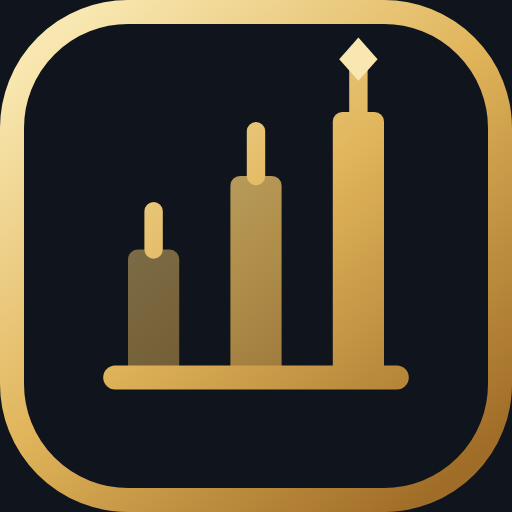
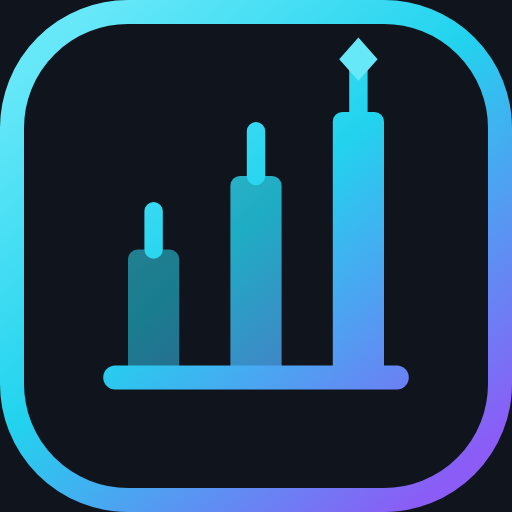
Retint the trading floor from gold to cyan and violet.
Electric cyan is the primary accent and violet is the secondary. Green and red stay on PnL. Headlines move from Fraunces to Space Grotesk. Logo, icons, and the Open Graph image match.

diff --git a/app/src/app/globals.css b/app/src/app/globals.css
@@ -1,6 +1,6 @@
 @import "tailwindcss";
 
-/* Royale Floor: ink, ivory, and champagne gold. Trading green and red stay literal. */
+/* Trading floor: ink, electric cyan, violet. Green and red are PnL only. */
 @theme {
   --color-bg: #07080c;
   --color-surface: #10141c;
@@ -8,19 +8,21 @@
   --color-surface-3: #222a3b;
   --color-border: #2a3346;
   --color-border-strong: #3d4a63;
-  --color-fg: #f4efe4;
+  --color-fg: #e7eef6;
   --color-muted: #a8b0c0;
   --color-faint: #6e778a;
   --color-up: #1edb8a;
   --color-up-strong: #16c47b;
   --color-down: #ff4d6d;
   --color-down-strong: #e43758;
-  --color-accent: #e0b45a;
-  --color-accent-strong: #c9963a;
+  --color-accent: #22d3ee;
+  --color-accent-strong: #06b6d4;
+  --color-violet: #a78bfa;
+  --color-violet-deep: #8b5cf6;
   --color-warn: #f0b429;
   --font-sans: var(--font-outfit), ui-sans-serif, system-ui, sans-serif;
   --font-mono: var(--font-jetbrains), ui-monospace, monospace;
-  --font-display: var(--font-fraunces), ui-serif, Georgia, serif;
+  --font-display: var(--font-display-face), ui-sans-serif, system-ui, sans-serif;
   --radius-card: 18px;
 }
 
@@ -37,16 +39,16 @@ body {
 body {
   min-height: 100dvh;
   background-image:
-    radial-gradient(980px 480px at 88% -8%, rgba(224, 180, 90, 0.13), transparent 58%),
-    radial-gradient(760px 420px at -12% 8%, rgba(30, 219, 138, 0.05), transparent 52%),
+    radial-gradient(980px 480px at 88% -8%, rgba(34, 211, 238, 0.14), transparent 58%),
+    radial-gradient(760px 420px at -12% 8%, rgba(139, 92, 246, 0.1), transparent 52%),
     linear-gradient(180deg, #0b0d13 0%, #07080c 280px);
   -webkit-font-smoothing: antialiased;
   -webkit-tap-highlight-color: transparent;
 }
 
 ::selection {
-  background: rgba(224, 180, 90, 0.28);
-  color: #fff8e8;
+  background: rgba(34, 211, 238, 0.28);
+  color: #f4fbff;
 }
 
 :focus-visible {
@@ -62,8 +64,8 @@ body {
 
 .display {
   font-family: var(--font-display);
-  font-weight: 520;
-  letter-spacing: -0.03em;
+  font-weight: 600;
+  letter-spacing: -0.045em;
 }
 
 .kicker {
@@ -178,8 +180,8 @@ body {
 }
 .storm-spotlight {
   background-image:
-    linear-gradient(100deg, transparent 30%, rgba(248, 231, 176, 0.45) 50%, transparent 70%),
-    linear-gradient(180deg, #2a220f, #16130c);
+    linear-gradient(100deg, transparent 30%, rgba(34, 211, 238, 0.55) 50%, transparent 70%),
+    linear-gradient(180deg, #0c1c24, #10141c);
   background-size: 45% 100%, 100% 100%;
   background-repeat: no-repeat;
   animation: spotlight-sweep 2.6s linear infinite;
@@ -188,16 +190,16 @@ body {
 @keyframes surge-flicker {
   0%,
   100% {
-    box-shadow: inset 0 0 0 1px rgba(224, 180, 90, 0.35);
+    box-shadow: inset 0 0 0 1px rgba(139, 92, 246, 0.45);
   }
   46% {
-    box-shadow: inset 0 0 28px rgba(224, 180, 90, 0.28);
+    box-shadow: inset 0 0 28px rgba(167, 139, 250, 0.35);
   }
   50% {
-    box-shadow: inset 0 0 0 1px rgba(255, 255, 255, 0.4);
+    box-shadow: inset 0 0 0 1px rgba(34, 211, 238, 0.55);
   }
   54% {
-    box-shadow: inset 0 0 36px rgba(224, 180, 90, 0.45);
+    box-shadow: inset 0 0 36px rgba(139, 92, 246, 0.5);
   }
 }
 .storm-surge {

diff --git a/app/src/app/page.tsx b/app/src/app/page.tsx
@@ -32,7 +32,7 @@ export default function Lobby() {
           </Pill>
           <h1 className="display mt-5 text-[42px] leading-[0.96] sm:text-[64px]">
             The battle royale
-            <span className="mt-1 block italic text-accent">for traders.</span>
+            <span className="mt-1 block text-accent">for traders.</span>
           </h1>
           <p className="mt-5 max-w-xl text-[16px] leading-relaxed text-muted">
             Four to sixteen traders stake USDC, take hidden positions on live prices, and outlast a field that gets smaller every minute. The last traders standing take the pot, paid on Solana.
@@ -467,7 +467,7 @@ function HowItWorks() {
 function StormShowcase() {
   const storms = [StormKind.Spotlight, StormKind.Surge, StormKind.Freeze, StormKind.ZoneShrink];
   return (
-    <section className="overflow-hidden rounded-[22px] border border-border bg-[linear-gradient(180deg,#16130c_0%,#10141c_42%)]">
+    <section className="overflow-hidden rounded-[22px] border border-violet/25 bg-[linear-gradient(180deg,#140e22_0%,#10141c_46%)]">
       <div className="px-5 py-8 sm:px-8">
         <div className="kicker">Storms</div>
         <h2 className="display mt-2 max-w-xl text-3xl sm:text-4xl">The rules change in public.</h2>
@@ -476,7 +476,7 @@ function StormShowcase() {
         </p>
         <div className="mt-6 grid gap-3 sm:grid-cols-2 lg:grid-cols-4">
           {storms.map((k) => (
-            <div key={k} className="rounded-2xl border border-accent/20 bg-black/25 p-4">
+            <div key={k} className="rounded-2xl border border-violet/30 bg-black/25 p-4">
               <div className="text-sm font-semibold text-accent">{STORM_COPY[k].title}</div>
               <p className="mt-2 text-[13px] leading-relaxed text-muted">{STORM_COPY[k].blurb("SOL", "Long")}</p>
             </div>

diff --git a/app/src/components/brand.tsx b/app/src/components/brand.tsx
@@ -7,14 +7,14 @@ import { cx } from "./ui";
 /** Crown of three candles. The tallest wick keeps the jewel. */
 export function LogoMark({ size = 28 }: { size?: number }) {
   const id = useId().replace(/:/g, "");
-  const grad = `pnl-gold-${id}`;
+  const grad = `pnl-signal-${id}`;
   return (
     <svg width={size} height={size} viewBox="0 0 32 32" aria-hidden>
       <defs>
         <linearGradient id={grad} x1="4" y1="2" x2="28" y2="30" gradientUnits="userSpaceOnUse">
-          <stop stopColor="#F8E7B0" />
-          <stop offset="0.48" stopColor="#E0B45A" />
-          <stop offset="1" stopColor="#A06D28" />
+          <stop stopColor="#67E8F9" />
+          <stop offset="0.45" stopColor="#22D3EE" />
+          <stop offset="1" stopColor="#8B5CF6" />
         </linearGradient>
       </defs>
       <rect width="32" height="32" rx="8" fill="#10141C" />
@@ -24,7 +24,7 @@ export function LogoMark({ size = 28 }: { size?: number }) {
       <rect x="14.4" y="11" width="3.2" height="12.6" rx="0.6" fill={`url(#${grad})`} opacity="0.78" />
       <rect x="20.8" y="7" width="3.2" height="16.6" rx="0.6" fill={`url(#${grad})`} />
       <path d="M9.6 13.2v2.4M16 8.2v2.8M22.4 4.15v2.85" stroke={`url(#${grad})`} strokeWidth="1.15" strokeLinecap="round" />
-      <path d="M22.4 2.35l1.2 1.35-1.2 1.35-1.2-1.35z" fill="#F8E7B0" />
+      <path d="M22.4 2.35l1.2 1.35-1.2 1.35-1.2-1.35z" fill="#67E8F9" />
     </svg>
   );
 }
@@ -35,7 +35,7 @@ export function Logo({ compact = false }: { compact?: boolean }) {
       <LogoMark size={compact ? 26 : 30} />
       <span className="leading-none">
         <span className="display block text-[17px] text-fg">
-          PnL <span className="italic text-accent">Royale</span>
+          PnL <span className="text-accent">Royale</span>
         </span>
       </span>
     </span>

diff --git a/app/src/components/HeroArt.tsx b/app/src/components/HeroArt.tsx
@@ -32,8 +32,8 @@ export function HeroArt() {
   const y = (v: number) => 36 + ((hi - v) / (hi - lo)) * (H - 150);
   const cw = (W - 72) / n;
   const lines = [
-    { pts: walk(11, n, 148, 8, 1.15), color: "#e0b45a", name: "You" },
-    { pts: walk(29, n, 146, 8, 0.15), color: "#c9d0dc", name: "Seat 4" },
+    { pts: walk(11, n, 148, 8, 1.15), color: "#22d3ee", name: "You" },
+    { pts: walk(29, n, 146, 8, 0.15), color: "#a78bfa", name: "Seat 4" },
     { pts: walk(41, n, 150, 8, -2.4), color: "#ff4d6d", name: "Seat 7" },
   ];
   const ly = (v: number) => 250 + (150 - v) * 1.15;
@@ -41,8 +41,8 @@ export function HeroArt() {
   const path = (pts: number[]) => pts.map((v, i) => `${i ? "L" : "M"}${36 + i * cw + cw / 2},${Math.min(ly(v), H - 28).toFixed(1)}`).join(" ");
 
   return (
-    <div className="relative overflow-hidden rounded-[22px] border border-border bg-[#0c1018] shadow-[0_30px_80px_-40px_rgba(224,180,90,0.45)]">
-      <div className="pointer-events-none absolute inset-0 bg-[radial-gradient(ellipse_at_80%_0%,rgba(224,180,90,0.16),transparent_55%)]" />
+    <div className="relative overflow-hidden rounded-[22px] border border-border bg-[#0c1018] shadow-[0_30px_80px_-40px_rgba(34,211,238,0.35)]">
+      <div className="pointer-events-none absolute inset-0 bg-[radial-gradient(ellipse_at_80%_0%,rgba(34,211,238,0.16),transparent_55%)]" />
       <div className="relative flex items-center justify-between border-b border-border px-4 py-3">
         <div className="flex items-center gap-2">
           <span className="pulse-dot h-1.5 w-1.5 rounded-full bg-down" />

diff --git a/app/src/components/room.tsx b/app/src/components/room.tsx
@@ -176,7 +176,7 @@ export function ChartPanel({
               <button
                 key={id}
                 onClick={() => onAsset(i)}
-                className={cx("flex items-center gap-2.5 rounded-xl px-3 py-1.5 text-left transition-colors", i === asset ? "bg-surface-3 shadow-[0_0_0_1px_rgba(224,180,90,0.35)]" : "hover:bg-surface-2")}
+                className={cx("flex items-center gap-2.5 rounded-xl px-3 py-1.5 text-left transition-colors", i === asset ? "bg-surface-3 shadow-[0_0_0_1px_rgba(34,211,238,0.55)]" : "hover:bg-surface-2")}
               >
                 <TokenIcon id={id} size={22} />
                 <span>
@@ -387,7 +387,7 @@ export function OrderTicket({
       <div className={cx("mt-4", side === 0 && "opacity-40")}>
         <div className="mb-1.5 flex items-center justify-between text-xs">
           <span className="text-muted">Leverage</span>
-          {surge && <span className="font-semibold text-accent">Surge · 25x open</span>}
+          {surge && <span className="font-semibold text-violet">Surge · 25x open</span>}
         </div>
         <Segmented<number> className="w-full" value={lev} onChange={setLev} options={levels.map((l) => ({ value: l, label: `${l}x`, disabled: side === 0 }))} />
       </div>

diff --git a/app/src/app/layout.tsx b/app/src/app/layout.tsx
@@ -1,12 +1,12 @@
 import type { Metadata, Viewport } from "next";
-import { Fraunces, JetBrains_Mono, Outfit } from "next/font/google";
+import { JetBrains_Mono, Outfit, Space_Grotesk } from "next/font/google";
 import "./globals.css";
 import { Providers } from "./providers";
 import { Header } from "@/components/Header";
 import { Footer } from "@/components/Footer";
 
 const outfit = Outfit({ subsets: ["latin"], variable: "--font-outfit" });
-const fraunces = Fraunces({ subsets: ["latin"], variable: "--font-fraunces" });
+const display = Space_Grotesk({ subsets: ["latin"], variable: "--font-display-face" });
 const jetbrains = JetBrains_Mono({ subsets: ["latin"], variable: "--font-jetbrains" });
 
 const description =
@@ -41,7 +41,7 @@ export const viewport: Viewport = { themeColor: "#07080c", width: "device-width"
 
 export default function RootLayout({ children }: { children: React.ReactNode }) {
   return (
-    <html lang="en" className={`${outfit.variable} ${fraunces.variable} ${jetbrains.variable}`}>
+    <html lang="en" className={`${outfit.variable} ${display.variable} ${jetbrains.variable}`}>
       <body className="font-sans">
         <Providers>
           <Header />

diff --git a/app/src/components/ui.tsx b/app/src/components/ui.tsx
@@ -8,7 +8,7 @@ type Variant = "primary" | "secondary" | "ghost" | "up" | "down";
 type Size = "sm" | "md" | "lg";
 
 const VARIANT: Record<Variant, string> = {
-  primary: "bg-accent text-[#1a1408] hover:bg-accent-strong shadow-[inset_0_1px_0_rgba(255,255,255,0.35)]",
+  primary: "bg-accent text-[#041318] hover:bg-accent-strong shadow-[inset_0_1px_0_rgba(255,255,255,0.35)]",
   secondary: "bg-surface-2 text-fg border border-border hover:bg-surface-3 hover:border-border-strong",
   ghost: "text-muted hover:text-fg hover:bg-surface-2",
   up: "bg-up text-[#04140c] hover:bg-up-strong",
@@ -112,7 +112,7 @@ export function Segmented<T extends string | number>({
           className={cx(
             "flex-1 whitespace-nowrap rounded-lg font-semibold transition-colors disabled:cursor-not-allowed disabled:opacity-35",
             size === "sm" ? "h-7 px-2.5 text-xs" : "h-9 px-3 text-[13px]",
-            o.value === value ? "bg-surface-3 text-fg shadow-[0_0_0_1px_rgba(224,180,90,0.35)]" : "text-muted hover:text-fg",
+            o.value === value ? "bg-surface-3 text-fg shadow-[0_0_0_1px_rgba(34,211,238,0.55)]" : "text-muted hover:text-fg",
           )}
         >
           {o.label}

diff --git a/app/src/app/profile/page.tsx b/app/src/app/profile/page.tsx
@@ -123,13 +123,13 @@ function RatingRing({ elo, ring }: { elo: number; ring: number }) {
           cy="42"
           r={r}
           fill="none"
-          stroke="#e0b45a"
+          stroke="#22d3ee"
           strokeWidth="6"
           strokeLinecap="round"
           strokeDasharray={`${c * ring} ${c}`}
           transform="rotate(-90 42 42)"
         />
-        <text x="42" y="46" textAnchor="middle" fill="#f4efe4" fontSize="14" fontFamily="var(--font-jetbrains), ui-monospace, monospace">
+        <text x="42" y="46" textAnchor="middle" fill="#e7eef6" fontSize="14" fontFamily="var(--font-jetbrains), ui-monospace, monospace">
           {elo}
         </text>
       </svg>

diff --git a/app/src/components/Footer.tsx b/app/src/components/Footer.tsx
@@ -10,7 +10,7 @@ export function Footer() {
           <div className="flex items-center gap-2.5">
             <LogoMark size={26} />
             <span className="display text-lg">
-              PnL <span className="italic text-accent">Royale</span>
+              PnL <span className="text-accent">Royale</span>
             </span>
           </div>
           <p className="mt-3 max-w-sm text-sm leading-relaxed text-muted">
